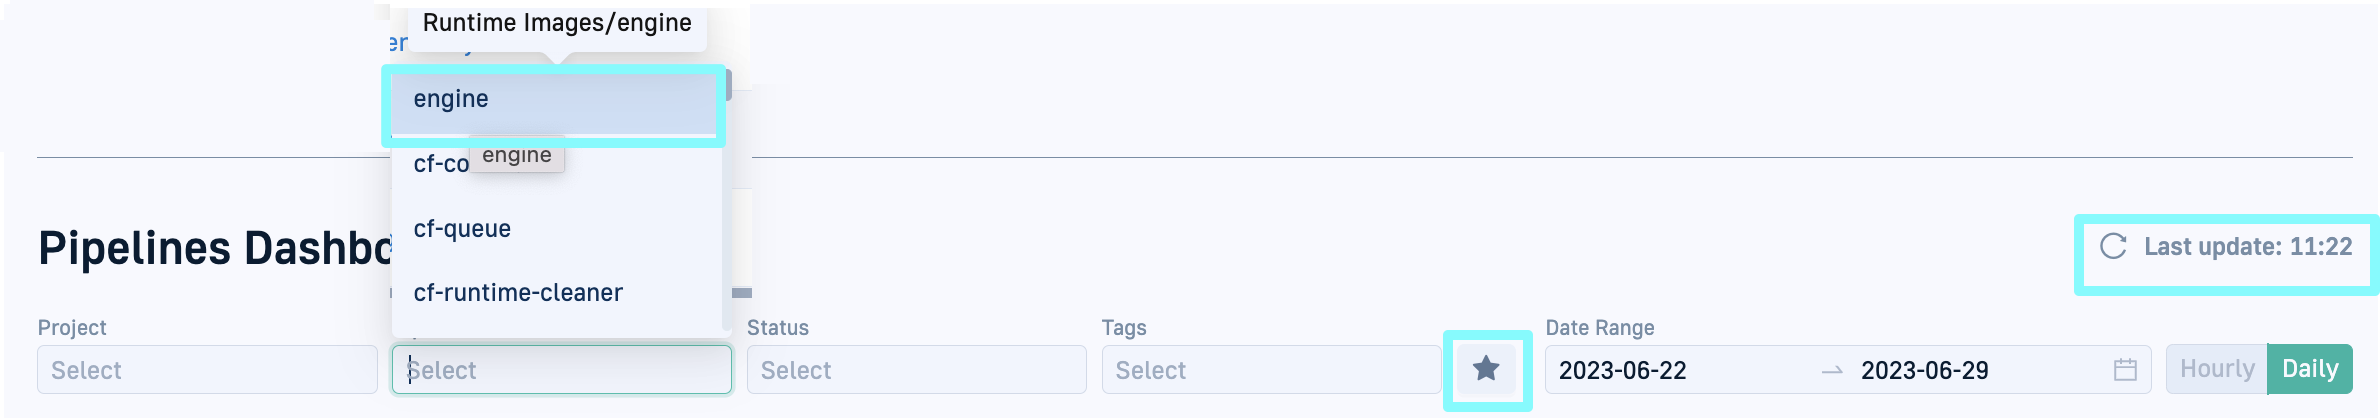
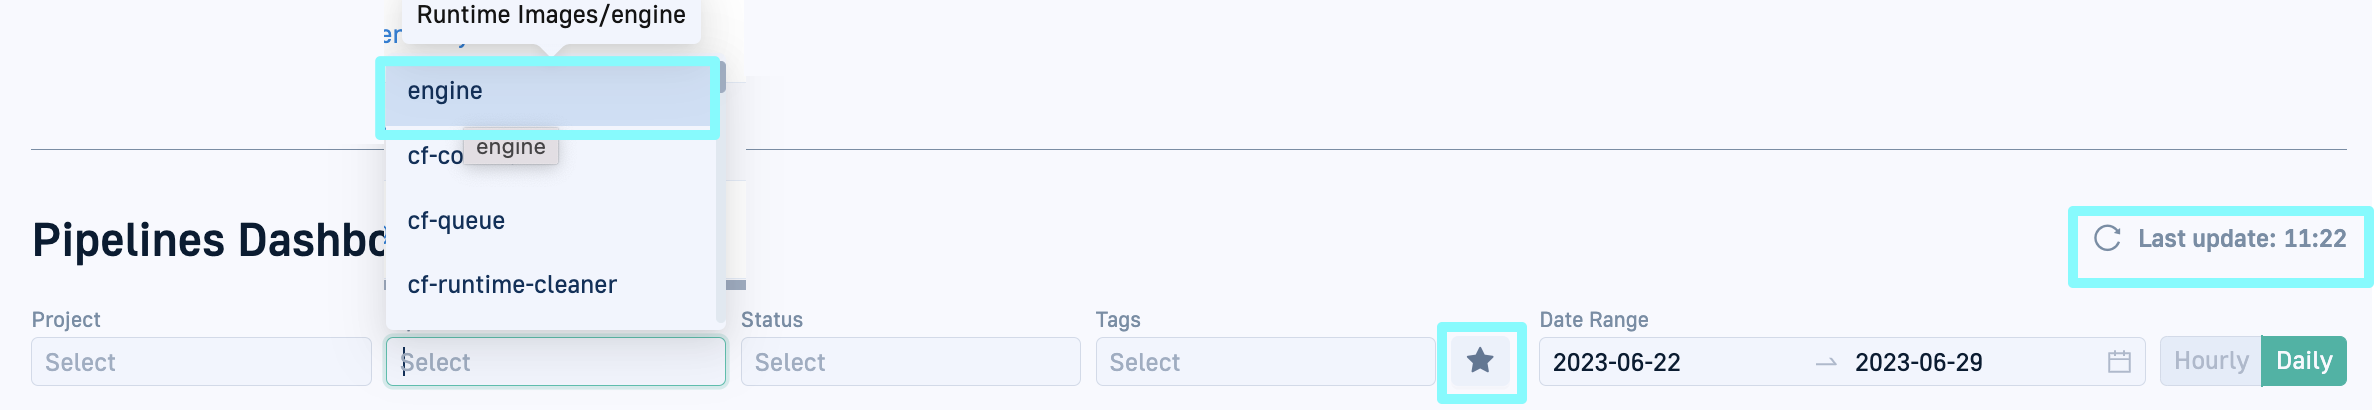
Updates

diff --git a/_docs/dashboards/home-dashboard.md b/_docs/dashboards/home-dashboard.md
@@ -264,8 +264,8 @@ Different filter types have an AND relationship.
 | --------------   | --------------|  
 | **Date Range** | The time frame for which to view data. The date range affects the other filters, including the granularity for the Success Rate and Pipeline Duration charts. <br>In addition to the predefined date ranges, you can select a custom date range of up to the last six months. <br>If you select Today, then the Success Rate and Duration charts reflect hourly granularity.<br><br>Every date range you select has a reference period corresponding to the same period of time preceding the selected date range. The reference period is used to derive comparisons and identify trends.  |
 | **Hourly/Daily** |Based on the date range selected, choose the granularity for viewing Success Rate and Pipeline Duration. {::nomarkdown}<ul><li>A date range between 1 and 4 days allows viewing metrics either by hour or by day.</li><li>A date range longer than four days allows viewing metrics only by day. The Hourly option is disabled in this case.</li></ul> {:/}
-| **Project**           | The project or projects to which the pipeline belongs. Selecting a project allows you to focus on performance of pipelines assigned to it. If you starred one or more projects as favorites, clicking {::nomarkdown}<img src="../../../images/icons/icon-fav-starred.png?display=inline-block">{:/}, filters pipelines by the selected projects.|                            
-| **Pipeline**           | The pipeline or pipelines to filter by. <br>If you starred one or more pipelines as favorites, clicking {::nomarkdown}<img src="../../../images/icons/icon-fav-starred.png?display=inline-block">{:/}, filters by those pipelines. |                            
+| **Project**           | The project or projects to which the pipeline belongs. Selecting a project allows you to focus on performance of pipelines assigned to it. If you starred one or more projects as favorites and selected projects, clicking {::nomarkdown}<img src="../../../images/icons/icon-fav-starred.png?display=inline-block">{:/}, filters pipelines by the selected projects.|                            
+| **Pipeline**           | The pipeline or pipelines to filter by. <br>Mouse over a pipeline name in the list displays a tooltip including the name of the project to which the pipeline belongs, followed by the name of the pipeline, to easily identify and select the correct pipeline.<br>If you starred one or more pipelines as favorites, clicking {::nomarkdown}<img src="../../../images/icons/icon-fav-starred.png?display=inline-block">{:/}, filters by those pipelines. |                            
 | **Status**           | {::nomarkdown}<ul><li><b>Error</b>: Pipelines with builds that failed due to errors in the pipeline specifications or steps that failed. </li><li><b>Succeeded</b>: Pipelines with builds that completed successfully.</li> <li><b>Terminated</b>: Pipelines with builds terminated by the system according to the policy defined in the pipeline's settings. These can be any of these: <ul><li>Recent build from the same branch terminating all previous pipeline builds </li><li>Recent build from the specified branch terminating all previous builds from that branch</li><li>Running build terminating all running builds</li><li>Child builds terminated when the parent build is terminated.</li> </ul></li>For details, see <a href ="https://codefresh.io/docs/docs/pipelines/pipelines/#policies">Build Termination in Pipeline Policies</a>. </ul>{:/}|                            
 | **Tags**             |The tag or tags assigned to the pipelines. | 
 |{::nomarkdown}<img src="../../../images/icons/icon-mark-favorite.png?display=inline-block">{:/}| Filter to view only projects or pipelines that have been starred as favorites in the [Projects/Pipeline pages]({{site.baseurl}}/docs/pipelines/monitoring-pipelines/#starring-projects-and-pipelines-as-favorites).<br><br>When you have starred projects or pipelines, the icon changes to {::nomarkdown}<img src="../../../images/icons/icon-fav-starred.png?display=inline-block">.<br>Clicking it filters by favorite projects and pipelines. {:/} |   

diff --git a/_posts/2023-06-15-june-release-notes.md b/_posts/2023-06-15-june-release-notes.md
@@ -69,7 +69,7 @@ The Pipelines Dashboard now has a Favorites filter. If you starred any projects 
 **Recent update indication**  
 The Last Update timestamp on the top right of the Pipelines Dashboard, refreshes automatically to show you the exact time the data was retrieved.
 
-**Full path display for pipelines in filter**
+**Full path display for pipelines in filter**  
 Previously, in the Pipelines filter, it was challenging to identify the correct pipeline, when multiple pipelines shared the same name across different projects. 
 Now, when you mouse over a pipeline name in the list, the tooltip displays the full path, including the name of the project to which the pipeline belongs, followed by the name of the pipeline. With this update, you can easily identify and select the correct pipeline in the Pipelines filter, even when multiple pipelines share the same name across different projects.
 
@@ -110,14 +110,13 @@ As part of our ongoing commitment to improving efficiency and simplifying instal
 
 
 **Pipelines**  
-* Git operations in pipeline build fails on authentication leading to build failures.
 * Pipeline builds terminate with error message: `Pipeline could not be executed because retry attempts limit has been exceeded...`.
 * Discrepancy in list of builds returned when running `GET {{baseUrl/workflow?pipeline=[pipeline-id]}}` query. 
 * Shallow clone for a specific revision with `depth` argument results in error: `pathspec 'test' did not match any file(s) known to git`.
-* Composition stops randomly with error:`Could not get status for container <container-name>`.
+* Composition stops randomly with error: `Could not get status for container <container-name>`.
 * Unable to define CRON triggers for pipelines.
 * Cross-account ECR pull in `freestyle` step fails with `(HTTP code 500) server error...`. 
-* In the Builds page, steps are grayed out, and Output tab for a step displays `loading` instead of the step logs.
+* In the Builds page, steps are grayed out, and the Output tab for a step displays `loading` instead of the step logs.
 * Creating a Git trigger for a repo name containing spaces fails with error: `Failed to create trigger...fails to match the required pattern...`.
 * Unable to set `requiredAvailableStorage` programmatically for Hybrid Pipeline Runtimes. 
 * 404 errors on clicking documentation links in Build > Triggers.
